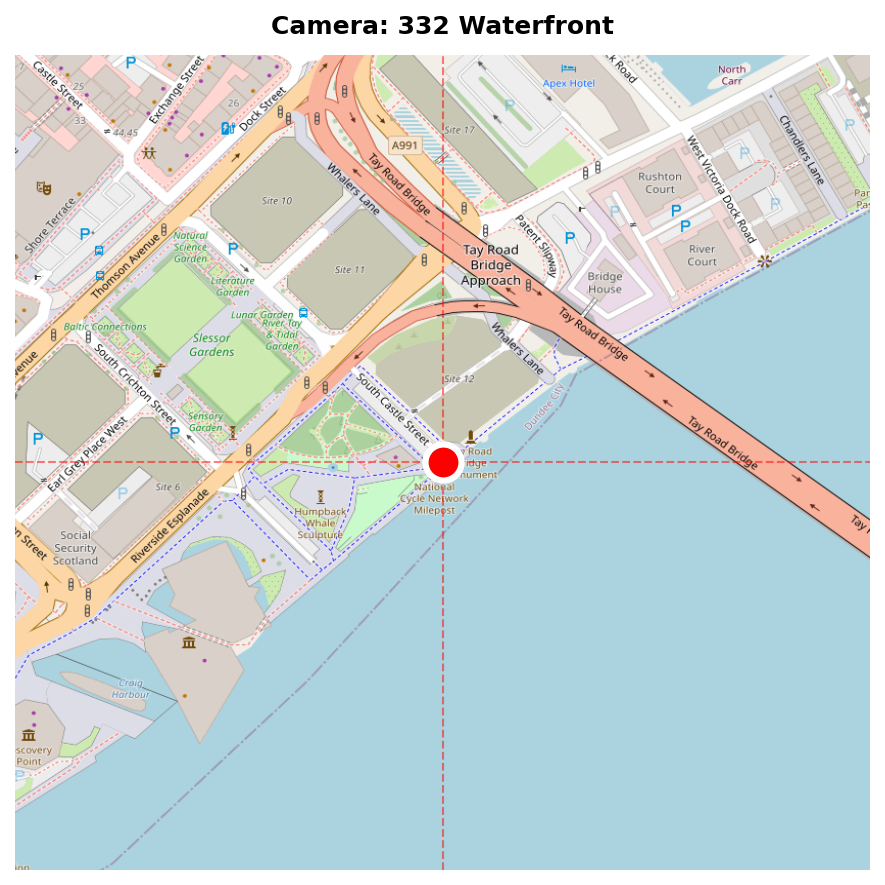
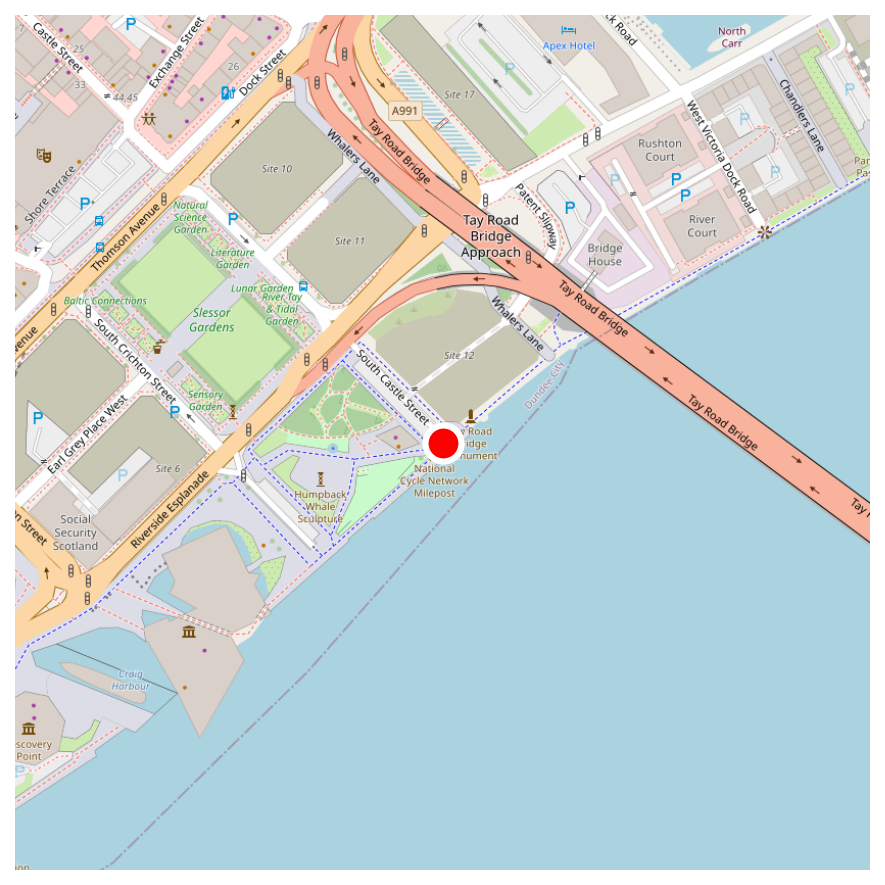
Map page UI update

diff --git a/Python Code/07_map_demo.py b/Python Code/07_map_demo.py
@@ -1,11 +1,13 @@
 import sys
 
-from PyQt6.QtCore import Qt, QUrl
-from PyQt6.QtWebEngineWidgets import QWebEngineView
+import pandas as pd
+from PyQt6.QtCore import Qt
+from PyQt6.QtGui import QColor, QPainter, QPixmap
 from PyQt6.QtWidgets import (
     QApplication,
     QCheckBox,
     QComboBox,
+    QGridLayout,
     QHBoxLayout,
     QLabel,
     QMainWindow,
@@ -16,10 +18,22 @@ from PyQt6.QtWidgets import (
     QWidget,
 )
 
+# Globals
+
+cctv_df: pd.DataFrame
+STARTTIME: int = 0
+FINISHTIME: int = 23
+
 
 class MapPage(QWidget):
+    MAP_IMAGE_SIZE = int(885 / 3)
+
     def __init__(self):
         super().__init__()
+
+        self.initUI()
+
+    def initUI(self):
         layout = QVBoxLayout()
         mapTopBar = QHBoxLayout()
         mapTopBar.setAlignment(Qt.AlignmentFlag.AlignTop)
@@ -37,25 +51,28 @@ class MapPage(QWidget):
                 "Sunday",
             ]
         )
+        dayDropMenu.currentIndexChanged.connect(self.on_day_changed)
 
         # Season Menu
         seasonDropMenu = QComboBox()
         seasonDropMenu.addItems(["Winter", "Spring", "Summer", "Autumn"])
+        seasonDropMenu.currentIndexChanged.connect(self.on_season_changed)
 
         # Start time container
         startTimeContainer = QVBoxLayout()
         startTimeContainer.setSpacing(0)
 
         # Start time label
-        startTimeLabel = QLabel("Start Time")
+        self.startTimeLabel = QLabel("Start Time: " + str(STARTTIME))
 
         # Start time slider
         startTimeSlider = QSlider()
         startTimeSlider.setMaximum(23)
         startTimeSlider.setMinimum(0)
         startTimeSlider.setOrientation(Qt.Orientation.Horizontal)
+        startTimeSlider.valueChanged.connect(self.on_start_time_changed)
 
-        startTimeContainer.addWidget(startTimeLabel)
+        startTimeContainer.addWidget(self.startTimeLabel)
         startTimeContainer.addWidget(startTimeSlider)
 
         # Finish time container
@@ -63,15 +80,16 @@ class MapPage(QWidget):
         finishTimeContainer.setSpacing(0)
 
         # Finish time label
-        finishTimeLabel = QLabel("Finish Time")
+        self.finishTimeLabel = QLabel("Finish Time: " + str(FINISHTIME))
 
         # Finish time slider
         finishTimeSlider = QSlider()
         finishTimeSlider.setMaximum(23)
         finishTimeSlider.setMinimum(0)
         finishTimeSlider.setOrientation(Qt.Orientation.Horizontal)
+        finishTimeSlider.valueChanged.connect(self.on_finish_time_changed)
 
-        finishTimeContainer.addWidget(finishTimeLabel)
+        finishTimeContainer.addWidget(self.finishTimeLabel)
         finishTimeContainer.addWidget(finishTimeSlider)
 
         """
@@ -86,7 +104,7 @@ class MapPage(QWidget):
         332 Waterfront
         """
         # Sources container
-        camerasContainer = QVBoxLayout()
+        camerasContainer = QHBoxLayout()
 
         self.checkbox_308 = QCheckBox("308 Murraygate")
         self.checkbox_310 = QCheckBox("310 Seagate")
@@ -96,6 +114,15 @@ class MapPage(QWidget):
         self.checkbox_328 = QCheckBox("328 South Marketgate")
         self.checkbox_332 = QCheckBox("332 Waterfront")
         self.checkbox_500 = QCheckBox("500 Hilltown")
+
+        self.checkbox_308.stateChanged.connect(self.on_camera_changed)
+        self.checkbox_310.stateChanged.connect(self.on_camera_changed)
+        self.checkbox_317.stateChanged.connect(self.on_camera_changed)
+        self.checkbox_320.stateChanged.connect(self.on_camera_changed)
+        self.checkbox_323.stateChanged.connect(self.on_camera_changed)
+        self.checkbox_328.stateChanged.connect(self.on_camera_changed)
+        self.checkbox_332.stateChanged.connect(self.on_camera_changed)
+        self.checkbox_500.stateChanged.connect(self.on_camera_changed)
 
         # Adding them to the specific container
         camerasContainer.addWidget(self.checkbox_308)
@@ -108,9 +135,89 @@ class MapPage(QWidget):
         camerasContainer.addWidget(self.checkbox_500)
 
         # Embedded map
-        self.browser = QWebEngineView()
-        map_url = "https://uod.maps.arcgis.com/apps/mapviewer/index.html?webmap=c697947abbf441159a34e08b1f8d31e5"
-        self.browser.setUrl(QUrl(map_url))
+        gridLayout = QGridLayout()
+
+        # 308 Murraygate
+        pixmap_308 = QPixmap("../Data/MapImages/308_murraygate.png")
+        scaledPixmap_308 = pixmap_308.scaled(
+            MapPage.MAP_IMAGE_SIZE, MapPage.MAP_IMAGE_SIZE
+        )
+        label_308 = QLabel("308 Murraygate")
+        label_308.setPixmap(scaledPixmap_308)
+
+        gridLayout.addWidget(label_308, 0, 0)
+
+        # 310 Seagate
+        pixmap_310 = QPixmap("../Data/MapImages/310_seagate.png")
+        scaledPixmap_310 = pixmap_310.scaled(
+            MapPage.MAP_IMAGE_SIZE, MapPage.MAP_IMAGE_SIZE
+        )
+        label_310 = QLabel("310 Seagate")
+        label_310.setPixmap(scaledPixmap_310)
+        gridLayout.addWidget(label_310, 0, 1)
+
+        # 317 Reform St
+        pixmap_317 = QPixmap("../Data/MapImages/317_reform_st.png")
+        scaledPixmap_317 = pixmap_317.scaled(
+            MapPage.MAP_IMAGE_SIZE, MapPage.MAP_IMAGE_SIZE
+        )
+        label_317 = QLabel("317 Reform St")
+        label_317.setPixmap(scaledPixmap_317)
+        gridLayout.addWidget(label_317, 0, 2)
+
+        # 320 Westport
+        pixmap_320 = QPixmap("../Data/MapImages/320_westport.png")
+        scaledPixmap_320 = pixmap_320.scaled(
+            MapPage.MAP_IMAGE_SIZE, MapPage.MAP_IMAGE_SIZE
+        )
+        label_320 = QLabel("320 Westport")
+        label_320.setPixmap(scaledPixmap_320)
+        gridLayout.addWidget(label_320, 1, 0)
+
+        # Dundee Overview
+        pixmap_overview = QPixmap("../Data/MapImages/dundee_overview.png")
+        scaledPixmap_overview = pixmap_overview.scaled(
+            MapPage.MAP_IMAGE_SIZE, MapPage.MAP_IMAGE_SIZE
+        )
+        label_overview = QLabel("Dundee Overview")
+        label_overview.setPixmap(scaledPixmap_overview)
+        gridLayout.addWidget(label_overview, 1, 1)
+
+        # 323 Union Street
+        pixmap_323 = QPixmap("../Data/MapImages/323_union_street.png")
+        scaledPixmap_323 = pixmap_323.scaled(
+            MapPage.MAP_IMAGE_SIZE, MapPage.MAP_IMAGE_SIZE
+        )
+        label_323 = QLabel("323 Union Street")
+        label_323.setPixmap(scaledPixmap_323)
+        gridLayout.addWidget(label_323, 1, 2)
+
+        # 328 South Marketgate
+        pixmap_328 = QPixmap("../Data/MapImages/328_south_marketgate.png")
+        scaledPixmap_328 = pixmap_328.scaled(
+            MapPage.MAP_IMAGE_SIZE, MapPage.MAP_IMAGE_SIZE
+        )
+        label_328 = QLabel("328 South Marketgate")
+        label_328.setPixmap(scaledPixmap_328)
+        gridLayout.addWidget(label_328, 2, 0)
+
+        # 332 Waterfront
+        pixmap_332 = QPixmap("../Data/MapImages/332_waterfront.png")
+        scaledPixmap_332 = pixmap_332.scaled(
+            MapPage.MAP_IMAGE_SIZE, MapPage.MAP_IMAGE_SIZE
+        )
+        label_332 = QLabel("332 Waterfront")
+        label_332.setPixmap(scaledPixmap_332)
+        gridLayout.addWidget(label_332, 2, 1)
+
+        # 500 Hilltown
+        pixmap_500 = QPixmap("../Data/MapImages/500_hilltown.png")
+        scaledPixmap_500 = pixmap_500.scaled(
+            MapPage.MAP_IMAGE_SIZE, MapPage.MAP_IMAGE_SIZE
+        )
+        label_500 = QLabel("500 Hilltown")
+        label_500.setPixmap(scaledPixmap_500)
+        gridLayout.addWidget(label_500, 2, 2)
 
         mapTopBar.addWidget(dayDropMenu)
         mapTopBar.addWidget(seasonDropMenu)
@@ -118,8 +225,38 @@ class MapPage(QWidget):
         mapTopBar.addLayout(finishTimeContainer)
         layout.addLayout(mapTopBar)
         layout.addLayout(camerasContainer)
-        layout.addWidget(self.browser)
+        layout.addLayout(gridLayout)
         self.setLayout(layout)
+
+    def apply_tint(self, pixmap: QPixmap, color: QColor) -> QPixmap:
+        # Create a copy to work on
+        tinted = pixmap.copy()
+        painter = QPainter(tinted)
+        painter.setCompositionMode(QPainter.CompositionMode.CompositionMode_SourceOver)
+        painter.fillRect(tinted.rect(), color)
+        painter.end()
+        return tinted
+
+    def on_day_changed(self, index):
+        pass
+
+    def on_season_changed(self, index):
+        pass
+
+    def on_start_time_changed(self, value):
+        STARTTIME = value
+        self.startTimeLabel.setText("Start Time: " + str(STARTTIME))
+
+    def on_finish_time_changed(self, value):
+        FINISHTIME = value
+        self.finishTimeLabel.setText("Start Time: " + str(FINISHTIME))
+
+    def on_camera_changed(self, state):
+        self.sender()
+        pass
+
+    def updateData(self):
+        pass
 
 
 class MLPage(QWidget):
@@ -136,6 +273,10 @@ class MainWindow(QMainWindow):
         self.setGeometry(300, 300, 1000, 1000)
         self.stack = QStackedWidget()
         self.initUI()
+        self.loadData()
+
+    def loadData(self):
+        cctv_df = pd.read_csv("../Data/Processed/05_Human_Readable.csv")
 
     def initUI(self):
         central_widget = QWidget()

diff --git a/Python Code/generate_map_images.py b/Python Code/generate_map_images.py
@@ -75,6 +75,7 @@ def generate_overview_map(output_path: Path, figsize: tuple = (12, 8), dpi: int 
     # Set bounds in Web Mercator
     ax.set_xlim(x_min, x_max)
     ax.set_ylim(y_min, y_max)
+    ax.set_aspect("equal")
 
     # Add OpenStreetMap basemap (top-down view)
     try:
@@ -89,7 +90,7 @@ def generate_overview_map(output_path: Path, figsize: tuple = (12, 8), dpi: int 
         print(f"  Warning: Could not fetch tiles: {e}")
         ax.set_facecolor("#e5e5e5")
 
-    # Add camera markers (convert to Mercator)
+    # Add camera markers (convert to Mercator) – no labels
     for camera_name, (lat, lon) in CAMERA_LOCATIONS.items():
         x, y = lat_lon_to_mercator(lat, lon)
         ax.scatter(
@@ -101,24 +102,9 @@ def generate_overview_map(output_path: Path, figsize: tuple = (12, 8), dpi: int 
             linewidths=2,
             zorder=3,
         )
-        ax.annotate(
-            camera_name.replace("_", " ").title(),
-            (x, y),
-            xytext=(5, 5),
-            textcoords="offset points",
-            fontsize=9,
-            fontweight="bold",
-            bbox=dict(boxstyle="round,pad=0.3", facecolor="yellow", alpha=0.7),
-            zorder=4,
-        )
+        # (Annotation removed)
 
-    # Title
-    ax.set_title(
-        "Dundee City Center - CCTV Camera Locations",
-        fontsize=14,
-        fontweight="bold",
-        pad=10,
-    )
+    # Title removed
 
     # Remove axes
     ax.set_xticks([])
@@ -190,17 +176,9 @@ def generate_camera_map(
         marker="o",
     )
 
-    # Add crosshair
-    ax.axhline(
-        y=y_center, color="red", linestyle="--", linewidth=1, alpha=0.5, zorder=2
-    )
-    ax.axvline(
-        x=x_center, color="red", linestyle="--", linewidth=1, alpha=0.5, zorder=2
-    )
+    # Crosshair removed
 
-    # Title
-    display_name = camera_name.replace("_", " ").title()
-    ax.set_title(f"Camera: {display_name}", fontsize=12, fontweight="bold", pad=10)
+    # Title removed
 
     # Remove axes
     ax.set_xticks([])
